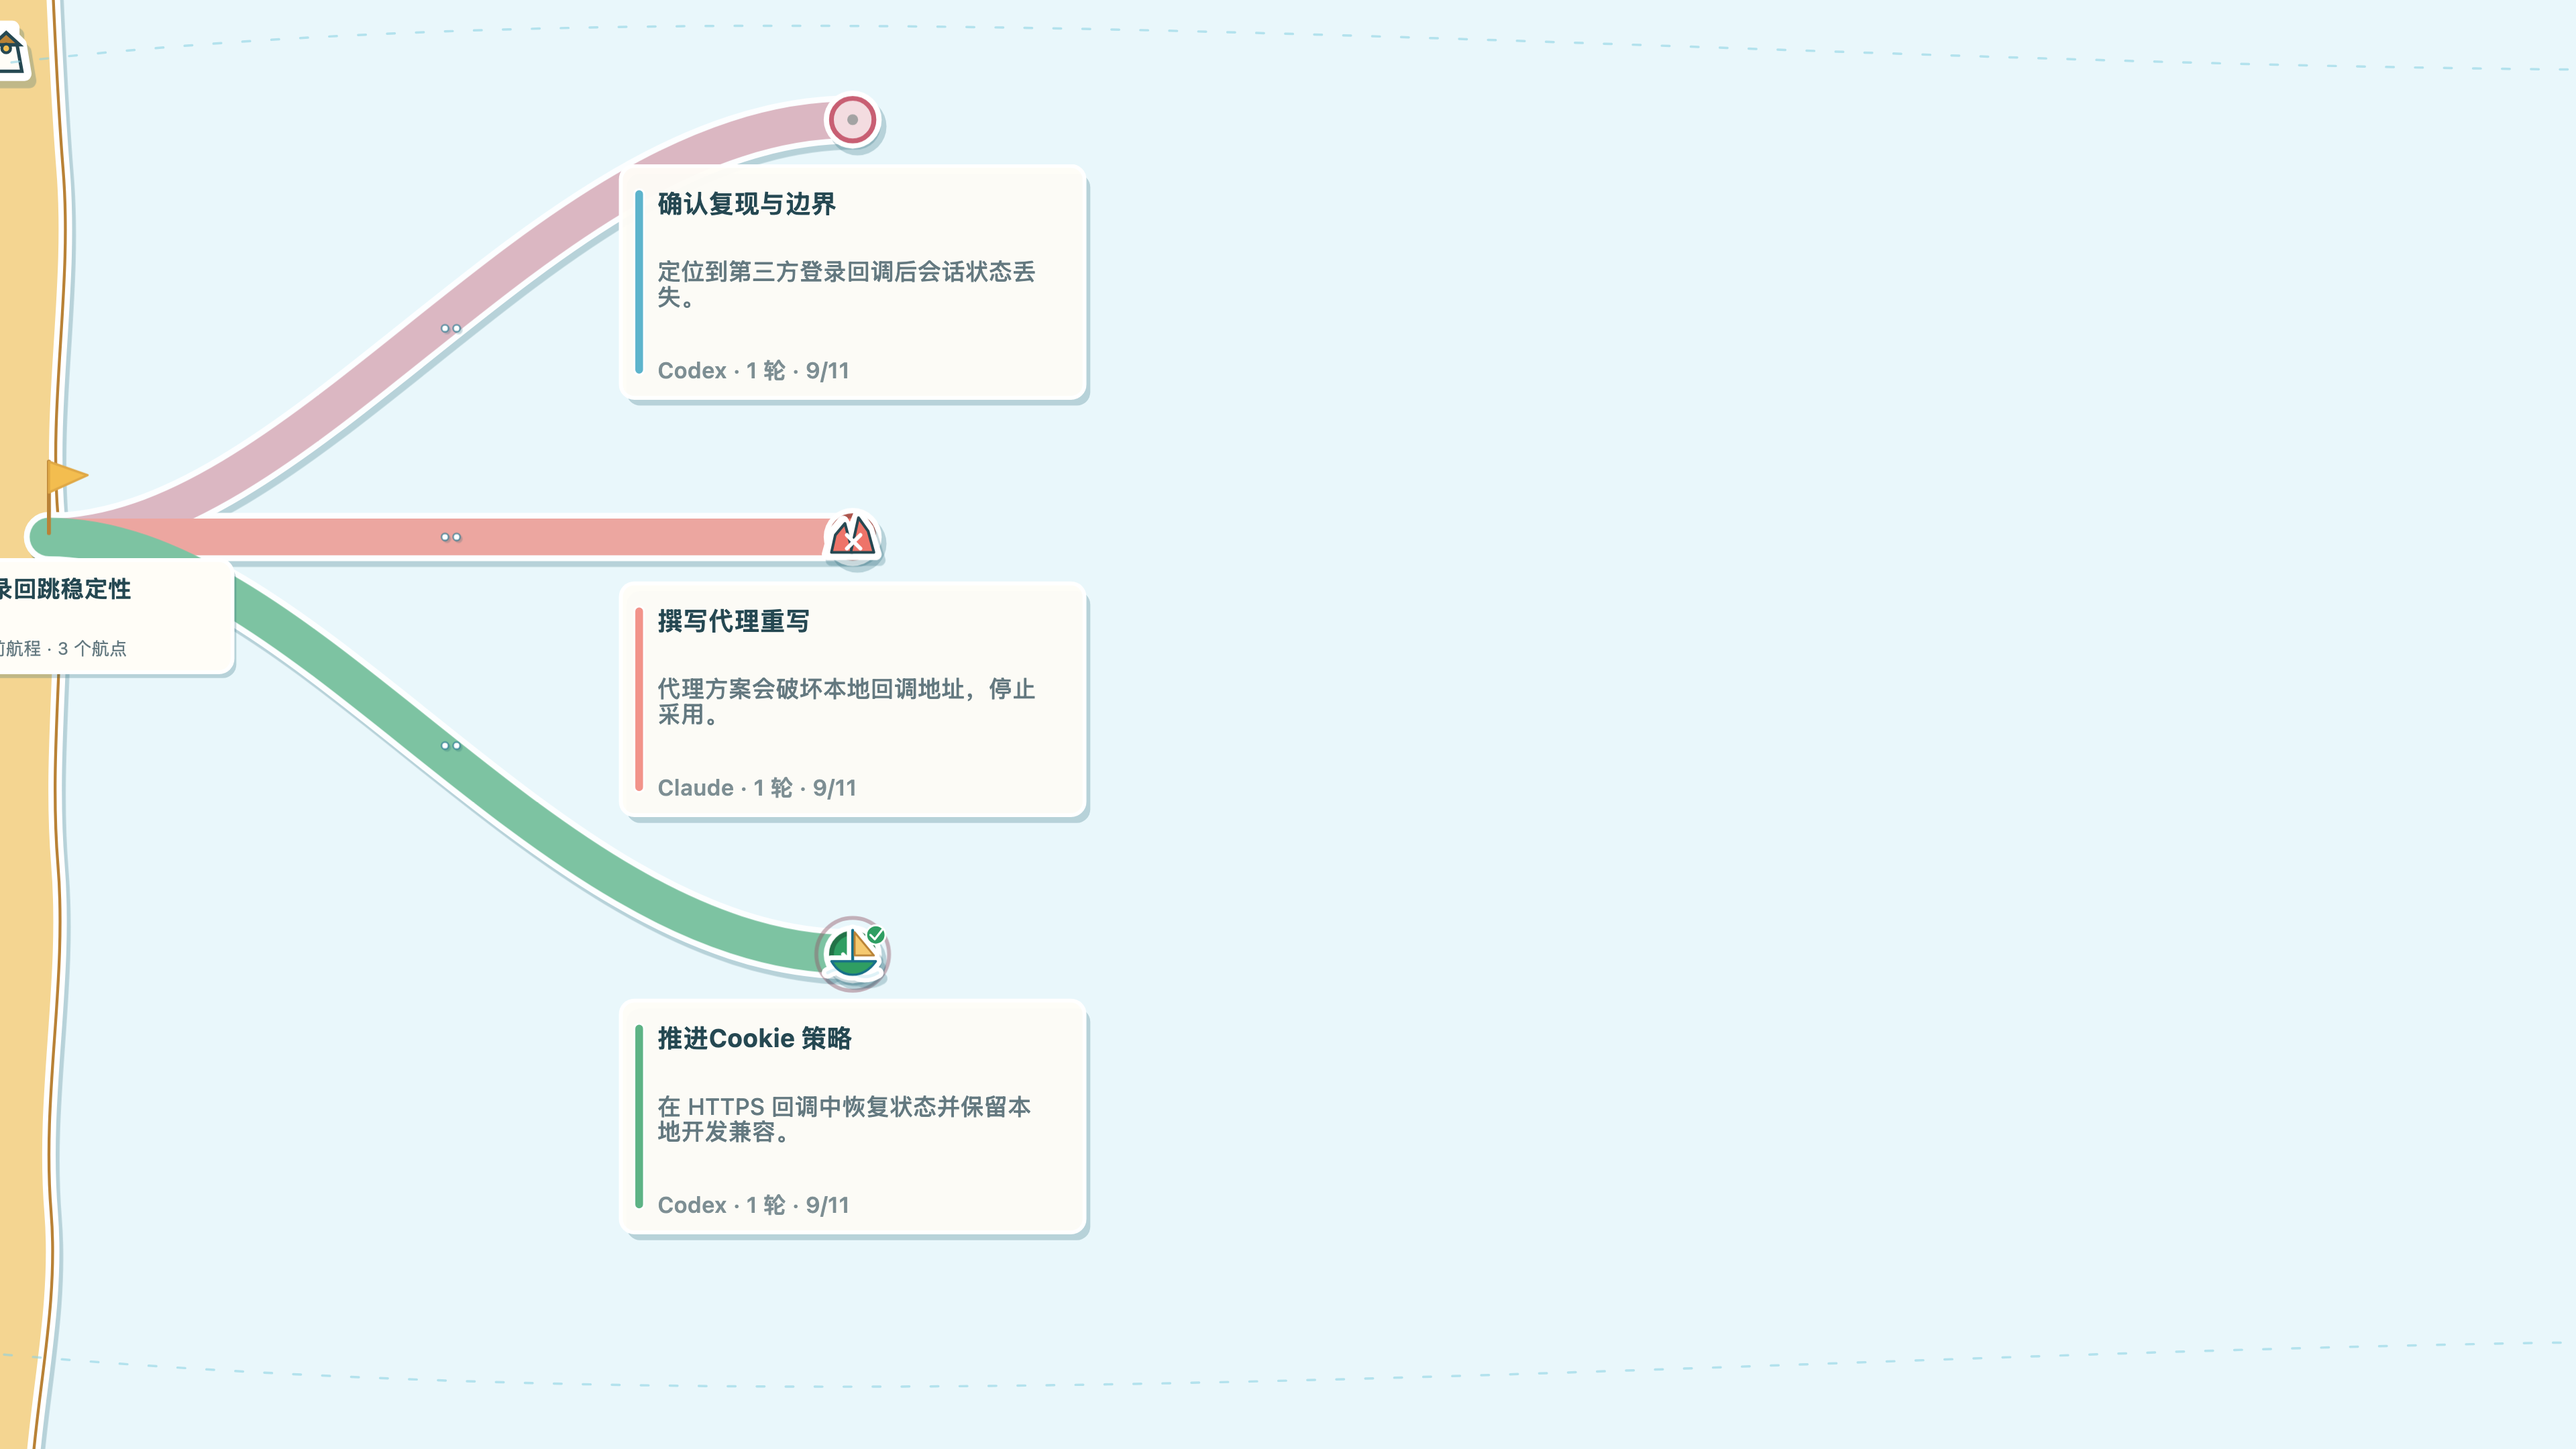
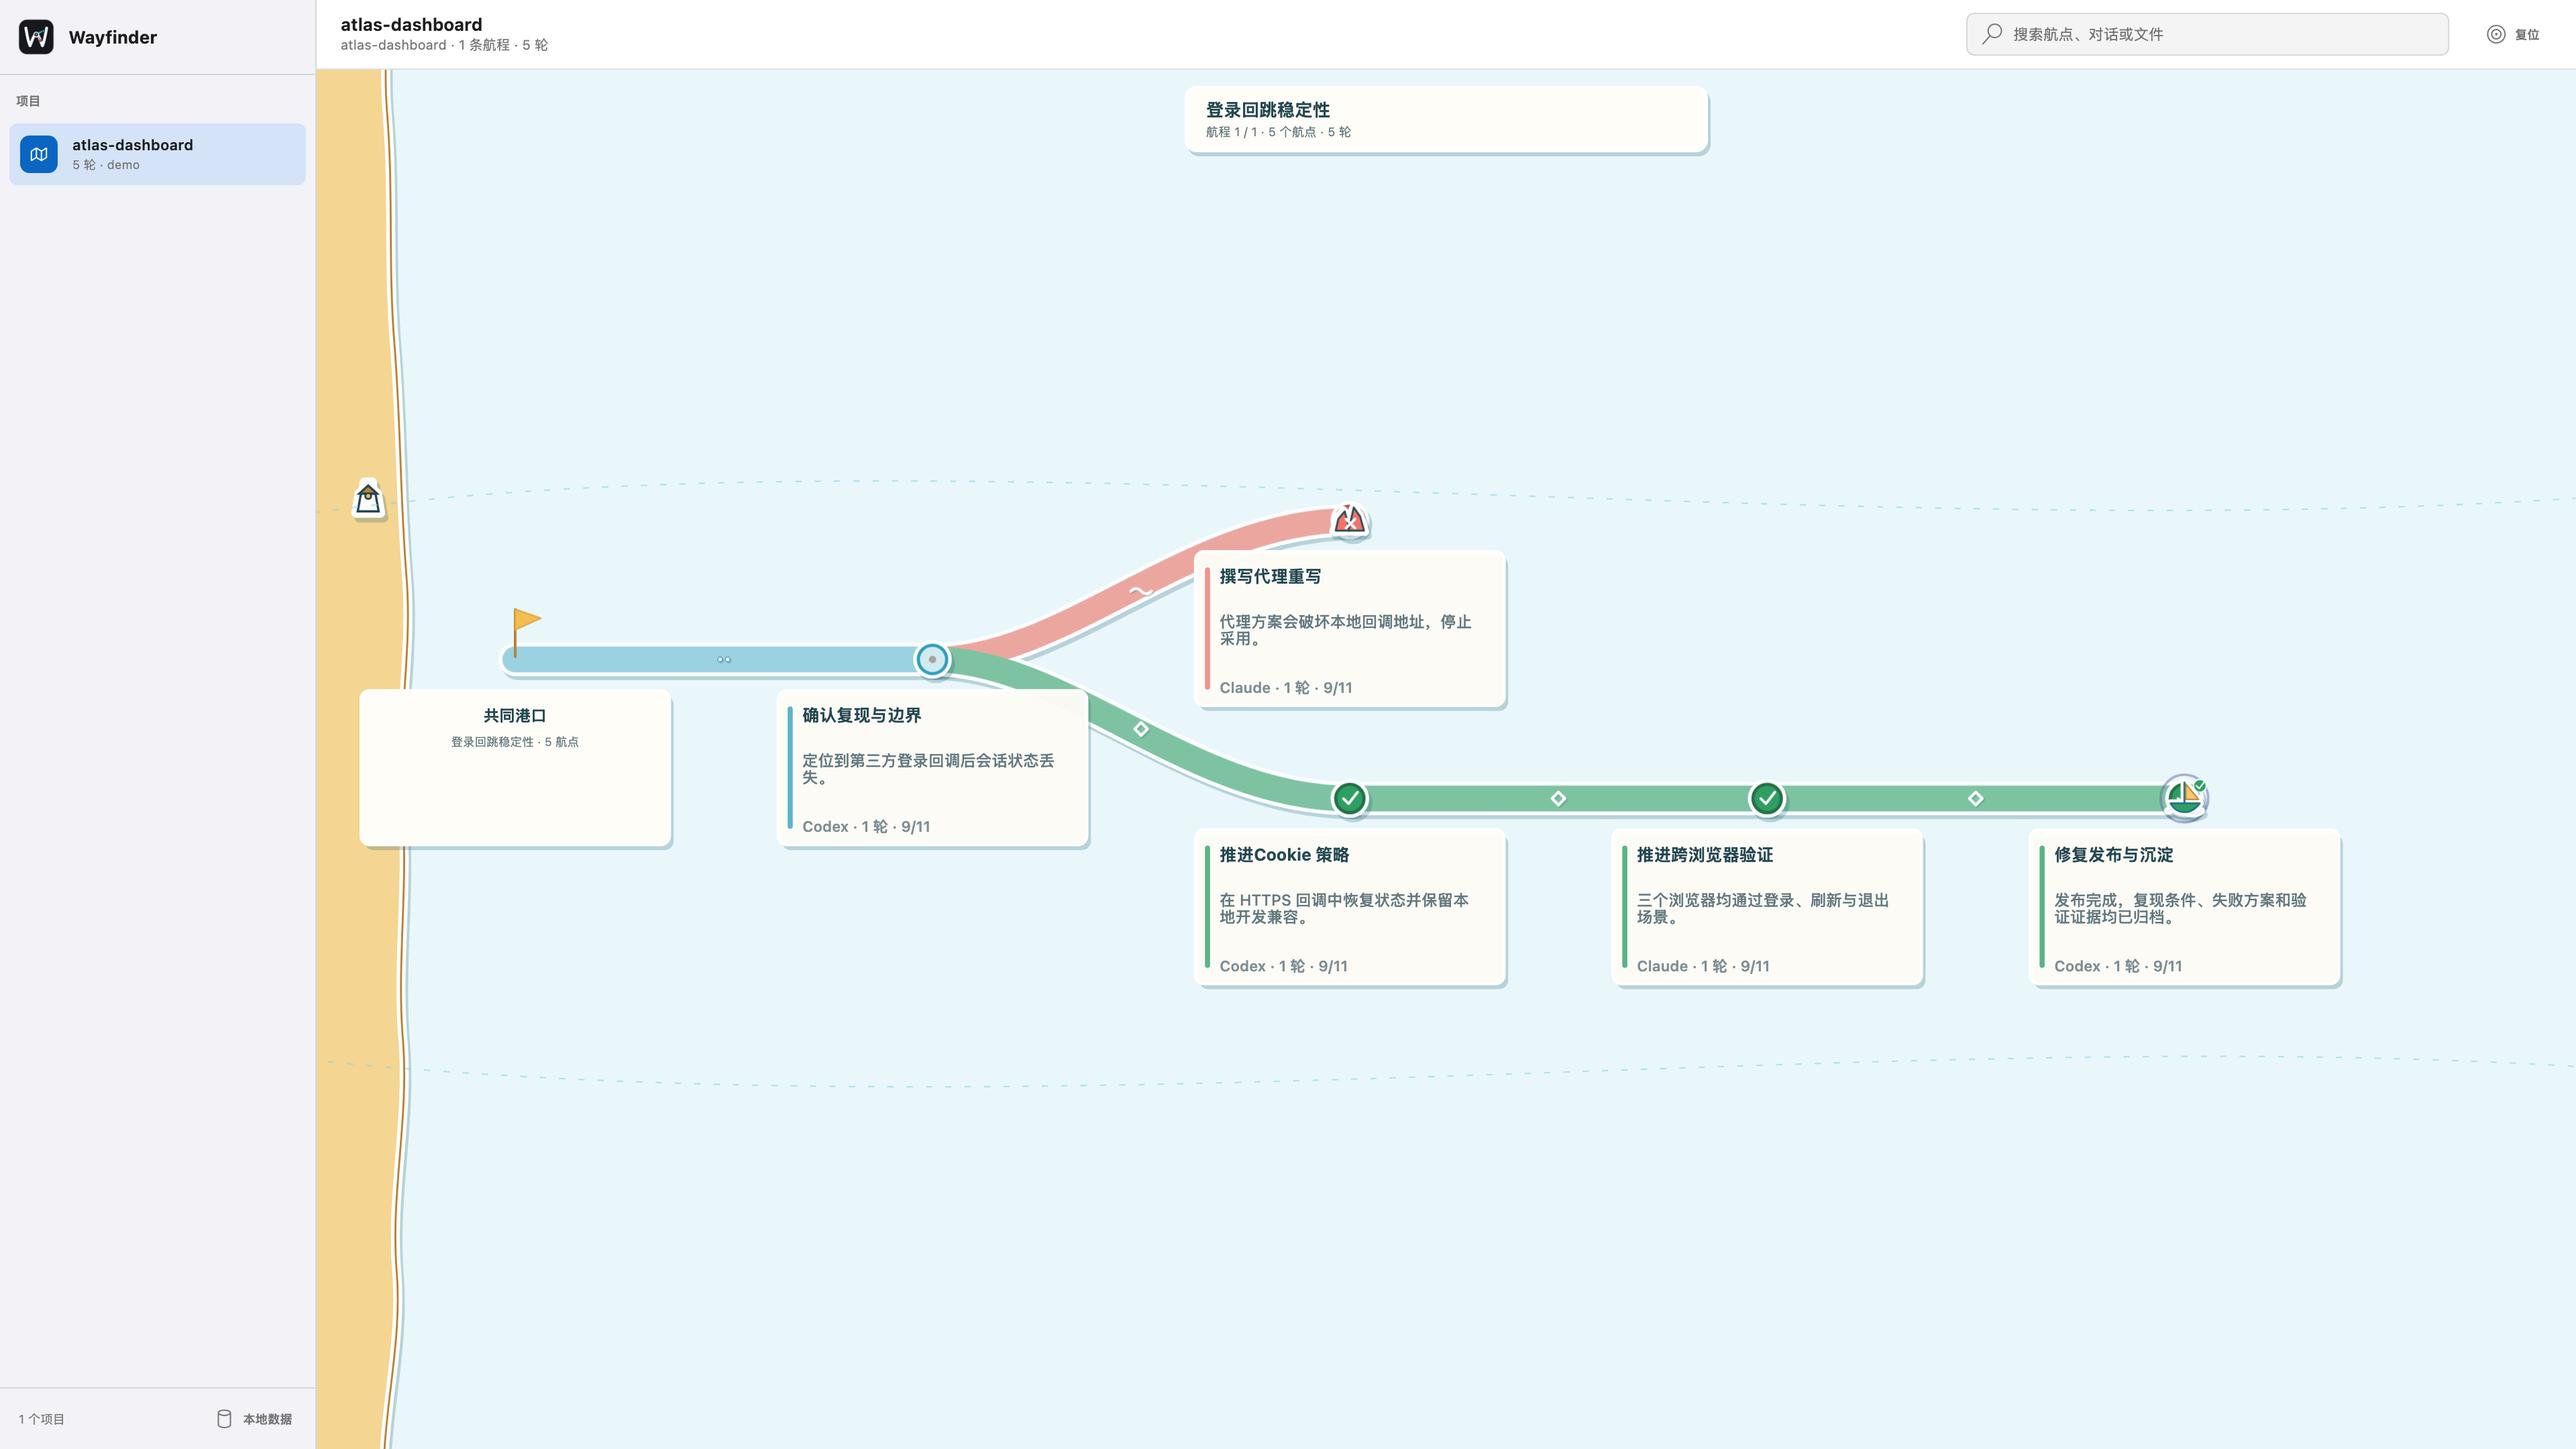
fix: restore full voyage example at 4k

diff --git a/website/index.html b/website/index.html
@@ -180,7 +180,7 @@
     <section class="story-section local-band reveal"
       aria-labelledby="local-title">
       <figure class="product-visual" data-parallax>
-        <img src="./login-voyage-focus-4k.png?v=4k"
+        <img src="./login-voyage-focus-4k.png?v=4k-2"
           alt="Wayfinder 示例航程细节，清晰展示登录问题的失败分支、有效路径、验证节点与沉淀结果"
           loading="lazy" decoding="async" draggable="false">
         <figcaption>
